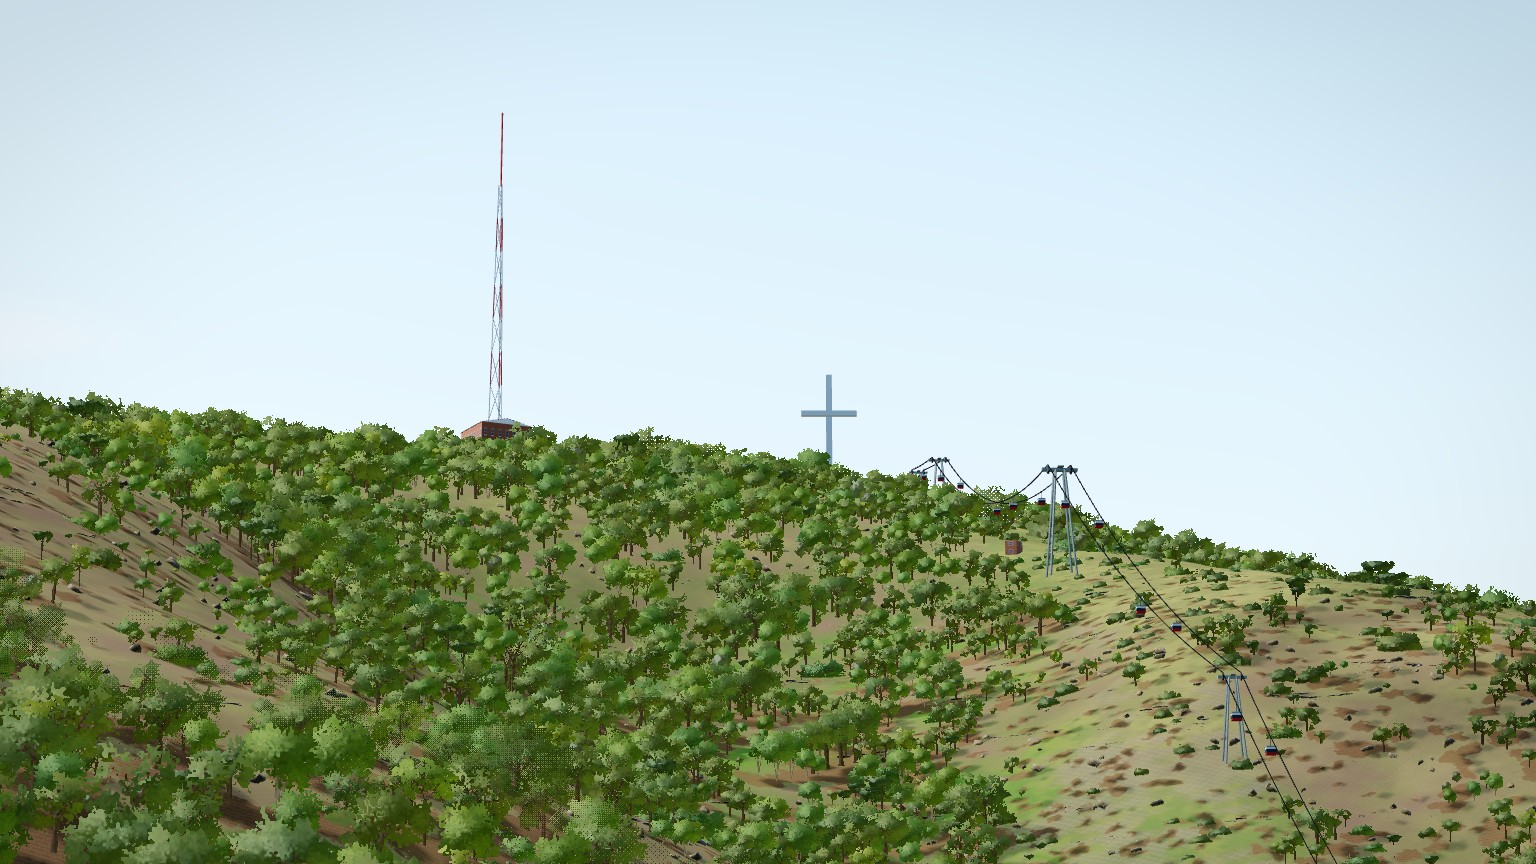
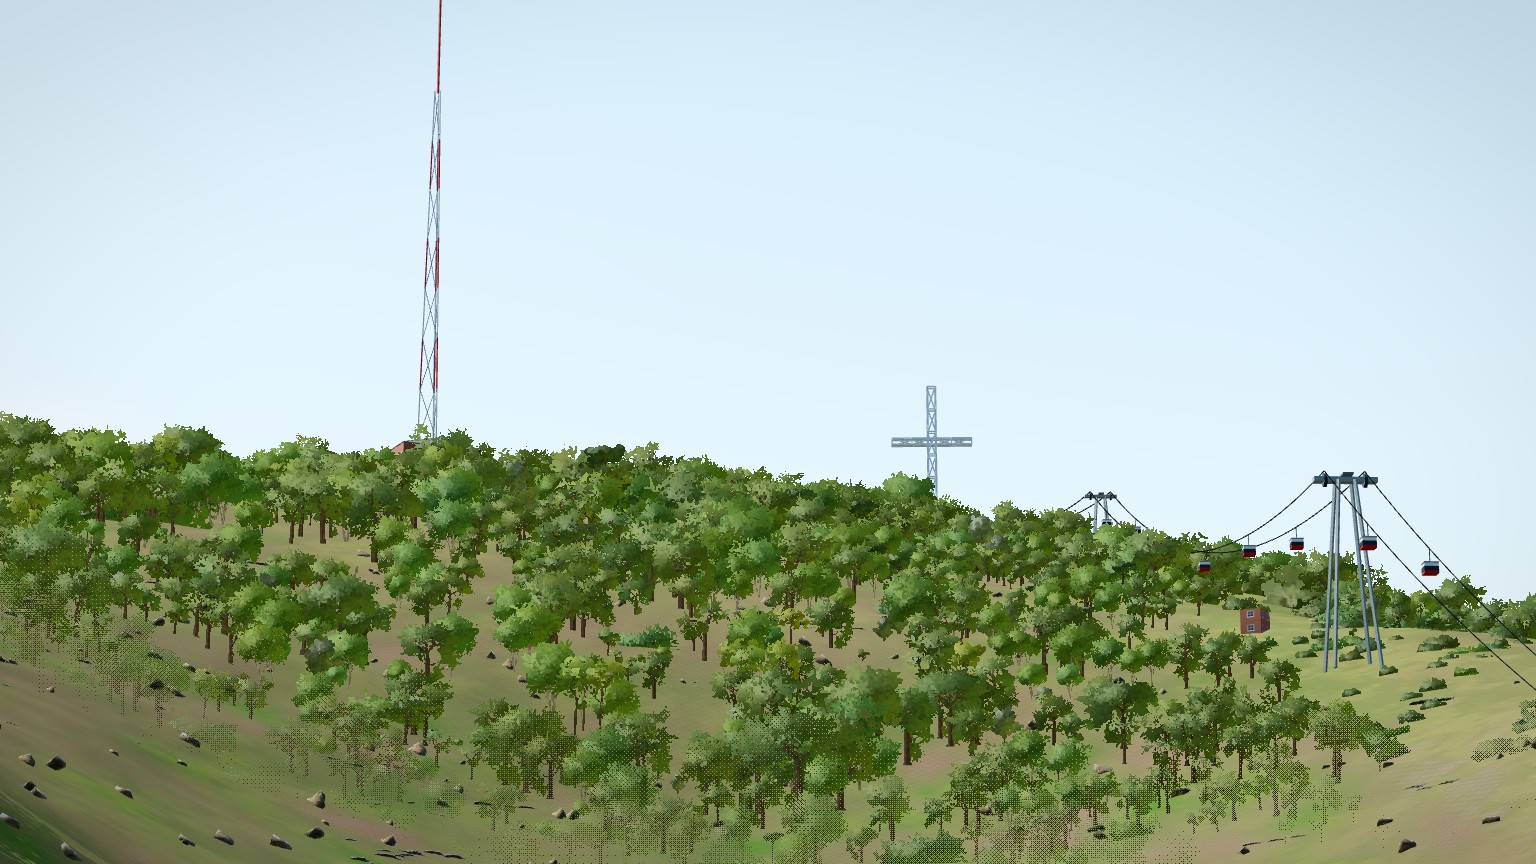
Retake Vodno hairpins at the left bend and cross-ridge closer

diff --git a/src/games/rally/DETAILS.md b/src/games/rally/DETAILS.md
@@ -772,28 +772,28 @@ the road at `?spawn=<m>` (`start` = the stage start) in free drive, default chas
 own season and hour unless the row says otherwise (night = 01:00). The same link plays the spot:
 `/games/rally/?stage=<stage>&car=<car>&season=<season>&tod=<hour>&spawn=<m>&mute=1`.
 
-| Picture                        | Stage            | Car         | Position                    | Season, time  | Shows                                                                                                           |
-| ------------------------------ | ---------------- | ----------- | --------------------------- | ------------- | --------------------------------------------------------------------------------------------------------------- |
-| `ajvatovci/start-street.jpg`   | ajvatovci        | skoda_rally | 200 m                       | summer 07:30  | Start street between the warehouses                                                                             |
-| `ajvatovci/farmland-road.jpg`  | ajvatovci        | skoda_rally | 1500 m                      | summer 07:30  | Farmland road: wheat left, meadow right, power line ahead                                                       |
-| `ajvatovci/hill-road.jpg`      | ajvatovci        | skoda_rally | 2950 m                      | summer 07:30  | Village edge: first houses, crew at the junction                                                                |
-| `ajvatovci/night.jpg`          | ajvatovci        | skoda_rally | 1500 m                      | summer 01:00  | The farmland road at night, headlights on                                                                       |
-| `galichica/livada-pass.jpg`    | galichica_west   | skoda_rally | 14000 m                     | autumn 09:00  | Climb to the Livada pass, bare slope                                                                            |
-| `galichica/prespa-climb.jpg`   | galichica_east   | skoda_rally | 24000 m                     | spring 09:00  | Climb from Lake Prespa, lake on the right                                                                       |
-| `jackie/city-start.jpg`        | jackie           | skoda_rally | start                       | summer 08:00  | Just short of the START arch                                                                                    |
-| `jackie/parkway-bridge.jpg`    | jackie           | skoda_rally | 2700 m                      | summer 08:00  | Parkway, left bend, parked cars and crowd on the right                                                          |
-| `jackie/night.jpg`             | jackie           | skoda_rally | 2700 m                      | summer 01:00  | The parkway at night, street lamps lit                                                                          |
-| `petralica/valley-road.jpg`    | petralica        | skoda_rally | 1900 m                      | summer 16:30  | Tarmac valley road, open fields, farms in the distance                                                          |
-| `petralica/mountain-climb.jpg` | petralica        | skoda_rally | 5500 m                      | summer 16:30  | Gravel climb, forested hill ahead                                                                               |
-| `petralica/night.jpg`          | petralica        | skoda_rally | 5600 m                      | summer 01:00  | The gravel at night, headlights on                                                                              |
-| `test/forest-stage.jpg`        | test             | skoda_rally | 600 m                       | summer 15:48  | Forest gravel between the pines, white marker posts                                                             |
-| `vodno/start-line.jpg`         | vodno            | skoda_rally | start                       | summer 10:00  | Car just short of the VODNO HILLCLIMB arch                                                                      |
-| `vodno/hairpins.jpg`           | vodno            | skoda_rally | 1050 m                      | summer 10:00  | Right-hand hairpin with the wooden guard rail                                                                   |
-| `vodno/cross-ridge.jpg`        | vodno            | skoda_rally | 4400 m (free camera)        | summer 10:00  | Free camera 120 m above the north slope at [466, -313], aimed at [-640, 780]: mast, cable car, Millennium Cross |
-| `start.jpg`                    | ajvatovci        | zastava_101 | start                       | summer 07:30  | Zastava 101 at the start line of Ajvatovci Hill                                                                 |
-| `ui-stage.jpg`                 | menu             | -           | Start rally -> Select stage | stage default | first stage highlighted, 1280x720                                                                               |
-| `thumbnail.jpg`                | jackie           | skoda_rally | 3500 m                      | summer 08:00  | Portal cover, with thumbnail-640.jpg                                                                            |
-| `public/og-image.jpg`          | portal home page | -           | -                           | -             | link preview 1200x630, taken after the cover                                                                    |
+| Picture                        | Stage            | Car         | Position                    | Season, time  | Shows                                                                                                          |
+| ------------------------------ | ---------------- | ----------- | --------------------------- | ------------- | -------------------------------------------------------------------------------------------------------------- |
+| `ajvatovci/start-street.jpg`   | ajvatovci        | skoda_rally | 200 m                       | summer 07:30  | Start street between the warehouses                                                                            |
+| `ajvatovci/farmland-road.jpg`  | ajvatovci        | skoda_rally | 1500 m                      | summer 07:30  | Farmland road: wheat left, meadow right, power line ahead                                                      |
+| `ajvatovci/hill-road.jpg`      | ajvatovci        | skoda_rally | 2950 m                      | summer 07:30  | Village edge: first houses, crew at the junction                                                               |
+| `ajvatovci/night.jpg`          | ajvatovci        | skoda_rally | 1500 m                      | summer 01:00  | The farmland road at night, headlights on                                                                      |
+| `galichica/livada-pass.jpg`    | galichica_west   | skoda_rally | 14000 m                     | autumn 09:00  | Climb to the Livada pass, bare slope                                                                           |
+| `galichica/prespa-climb.jpg`   | galichica_east   | skoda_rally | 24000 m                     | spring 09:00  | Climb from Lake Prespa, lake on the right                                                                      |
+| `jackie/city-start.jpg`        | jackie           | skoda_rally | start                       | summer 08:00  | Just short of the START arch                                                                                   |
+| `jackie/parkway-bridge.jpg`    | jackie           | skoda_rally | 2700 m                      | summer 08:00  | Parkway, left bend, parked cars and crowd on the right                                                         |
+| `jackie/night.jpg`             | jackie           | skoda_rally | 2700 m                      | summer 01:00  | The parkway at night, street lamps lit                                                                         |
+| `petralica/valley-road.jpg`    | petralica        | skoda_rally | 1900 m                      | summer 16:30  | Tarmac valley road, open fields, farms in the distance                                                         |
+| `petralica/mountain-climb.jpg` | petralica        | skoda_rally | 5500 m                      | summer 16:30  | Gravel climb, forested hill ahead                                                                              |
+| `petralica/night.jpg`          | petralica        | skoda_rally | 5600 m                      | summer 01:00  | The gravel at night, headlights on                                                                             |
+| `test/forest-stage.jpg`        | test             | skoda_rally | 600 m                       | summer 15:48  | Forest gravel between the pines, white marker posts                                                            |
+| `vodno/start-line.jpg`         | vodno            | skoda_rally | start                       | summer 10:00  | Car just short of the VODNO HILLCLIMB arch                                                                     |
+| `vodno/hairpins.jpg`           | vodno            | skoda_rally | 1325 m                      | summer 10:00  | Left-hand hairpin with the wooden guard rail and the red chevron sign                                          |
+| `vodno/cross-ridge.jpg`        | vodno            | skoda_rally | 4400 m (free camera)        | summer 10:00  | Free camera 100 m above the north slope at [170, -31], aimed at [-600, 775]: mast, cable car, Millennium Cross |
+| `start.jpg`                    | ajvatovci        | zastava_101 | start                       | summer 07:30  | Zastava 101 at the start line of Ajvatovci Hill                                                                |
+| `ui-stage.jpg`                 | menu             | -           | Start rally -> Select stage | stage default | first stage highlighted, 1280x720                                                                              |
+| `thumbnail.jpg`                | jackie           | skoda_rally | 3500 m                      | summer 08:00  | Portal cover, with thumbnail-640.jpg                                                                           |
+| `public/og-image.jpg`          | portal home page | -           | -                           | -             | link preview 1200x630, taken after the cover                                                                   |
 
 ## Known limitations
 
